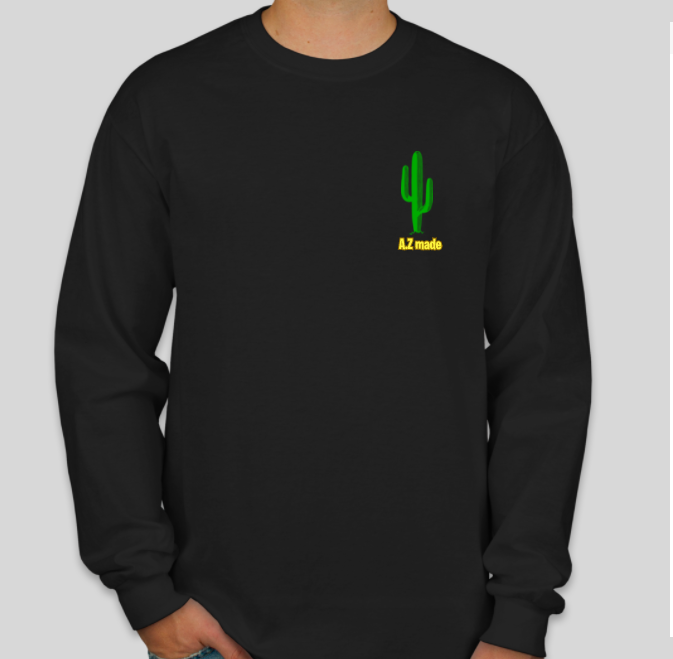
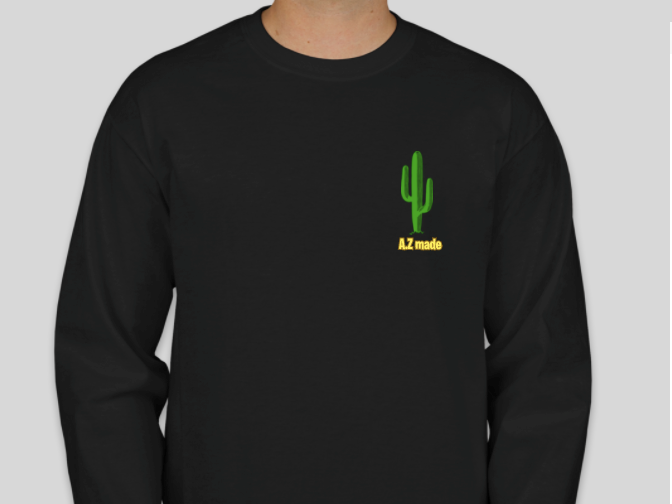
Added to Form & Products, Cropped Images
Added to form page by adding more spots and added to products page.Started on some script and also re-cropped images to better position them.

diff --git a/form.html b/form.html
@@ -22,6 +22,7 @@
     
     <!-- Optional JavaScript -->
     <script src="script.js"></script>
+    <script src="form.js"></script>
     
     
 <div class="style brownGradient">
@@ -108,13 +109,80 @@
             </div>
         </div>
         <h4 class="">Payment</h4>
-        <div class="form-group">
-            
+        <div class="form-group border-dark inputStyles">
+            <h5>Credit Card</h5>
+            <div class="row inputStyles">
+                <div class="form-check form-check-inline inputStyles">
+                    <input type="radio" class="form-check-input" id="visaChk" name="cardChkBox" checked>
+                    <label for="visaChk" class="form-check-label">Visa</label>
+                </div>
+                <div class="form-check form-check-inline inputStyles">
+                    <input type="radio" class="form-check-input" id="mCardChk" name="cardChkBox">
+                    <label for="mCardChk" class="form-check-label">Master Card</label>
+                </div>
+                <div class="form-check form-check-inline inputStyles">
+                    <input type="radio" class="form-check-input" id="aExpChk" name="cardChkBox">
+                    <label for="aExpChk" class="form-check-label">American Express</label>
+                </div>
+                <div class="form-check form-check-inline inputStyles">
+                    <input type="radio" class="form-check-input" id="dCardChk" name="cardChkBox">
+                    <label for="dCardChk" class="form-check-label">Discover Card</label>
+                </div>
+            </div>
+            <div class="row">
+                <div id="visa" class="inputStyles col">
+                    <input class="form-control" type="text" id="visa" pattern="" placeholder="">
+                </div>
+                <div id="masterCard" class="inputStyles col">
+                    <input class="form-control" type="text" id="masterCard" pattern="" placeholder="">
+                </div>
+                <div id="americanExp" class="inputStyles col">
+                    <input class="form-control" type="text" id="americanExp" pattern="" placeholder="">
+                </div>
+                <div id="discover" class="inputStyles col">
+                    <input class="form-control" type="text" id="discover" pattern="" placeholder="">
+                </div>
+            </div>
+            <div class="row inputStyles">
+                <h5 class="col-12">Expiration Date</h5>
+                <div class="inputStyles">
+                    <label for="expDate"> Month</label>
+                    <select name="expDate" id="expDate" class="form-control">
+                        <option value="01">January</option>
+                        <option value="02">Febuary</option>
+                        <option value="03">March</option>
+                        <option value="04">April</option>
+                        <option value="05">May</option>
+                        <option value="06">June</option>
+                        <option value="07">July</option>
+                        <option value="08">August</option>
+                        <option value="09">September</option>
+                        <option value="10">October</option>
+                        <option value="11">November</option>
+                        <option value="12">December</option>
+                    </select>
+                </div>
+                <div class="inputStyles ">
+                    <label for="expDateY"> Year </label>
+                    <select name="expDateY" id="expDateY" class="form-control">
+                        <option value="18">2018</option>
+                        <option value="19">2019</option>
+                        <option value="20">2020</option>
+                        <option value="21">2021</option>
+                        <option value="22">2022</option>
+                    </select>
+                </div>
+                <h5 class="col">CVC or CVV</h5>
+                <div class="inputStyles">
+                    <label for="cvc">4-Numbers on the back of Your card</label>
+                    <input type="text" id="cvc">
+                </div>
+            </div>
         </div>
     </form>
    
     <!-- Footer -->
-    <footer class="footer fixed-bottom"></footer>
+    <footer class="footer fixed-bottom">Hello</footer>
     
 
 </body>

diff --git a/index.html b/index.html
@@ -70,7 +70,7 @@
     <div class="container-fluid brownGradient">
 
     <!-- Carousel -->
-    <div id="carouselExampleIndicators" class="carousel slide" data-ride="carousel">
+    <div id="carouselExampleIndicators" class="carousel slide col-10 col-sm-12 center" data-ride="carousel">
       <ol class="carousel-indicators">
         <li data-target="#carouselExampleIndicators" data-slide-to="0" class="active"></li>
         <li data-target="#carouselExampleIndicators" data-slide-to="1"></li>
@@ -106,7 +106,7 @@
           <img class="d-block w-100" src="merch/cactusFrontT.png" alt="Fourth slide">
           <div class="carousel-caption">
             <h5>T-Shirts</h5>
-            <p>But Nature Power's T-Shirts</p>
+            <p>Buy Nature Power's T-Shirts</p>
           </div>
         </div>
         <div class="carousel-item">
@@ -118,11 +118,11 @@
         </div>
 
       </div>
-      <a class="carousel-control-prev" href="#carouselExampleIndicators" role="button" data-slide="prev">
+      <a class="carousel-control-prev bg-transparent" href="#carouselExampleIndicators" role="button" data-slide="prev">
         <span class="carousel-control-prev-icon" aria-hidden="true"></span>
         <span class="sr-only">Previous</span>
       </a>
-      <a class="carousel-control-next" href="#carouselExampleIndicators" role="button" data-slide="next">
+      <a class="carousel-control-next bg-transparent" href="#carouselExampleIndicators" role="button" data-slide="next">
         <span class="carousel-control-next-icon" aria-hidden="true"></span>
         <span class="sr-only">Next</span>
       </a>

diff --git a/products.html b/products.html
@@ -117,9 +117,11 @@
     <div id="commTrees" class="container-fluid">
         <h3>Community Trees</h3>
         <div class="row">
-        <img src="images/arizonaAsh.JPG" alt="Arizona Ash Tree" class="img-thumbnail w-100 d-block  col-8 center">
-        <h4>Arizona Ash</h4>
-        <p></p>
+          <div class=" col-md-12 col-lg-8 col-sm-12 center">
+              <img src="images/arizonaAsh.JPG" alt="Arizona Ash Tree" class="img-thumbnail d-block img-responsive">
+              <h4>Arizona Ash</h4>
+          </div>
+          <p class="col-12"></p>
         </div>  
     </div>
 
@@ -127,6 +129,17 @@
     <!--Merch  -->
     <div id="merch" class="container-fluid">
       <h3>Merch</h3>
+      <div>
+        <div id="tshirts" class="row">
+          
+        </div>
+        <div id="longslv" class="row">
+
+        </div>
+        <div id="hoodies" class="row">
+
+        </div>
+      </div>
     </div>
     
     <!-- Footer -->

diff --git a/form.js b/form.js
@@ -1,0 +1,3 @@
+$document.ready( function () {  
+    
+});
